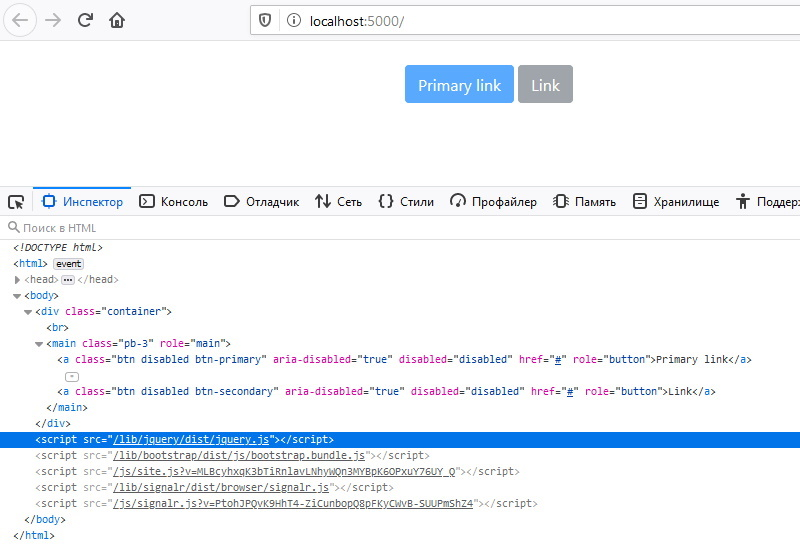
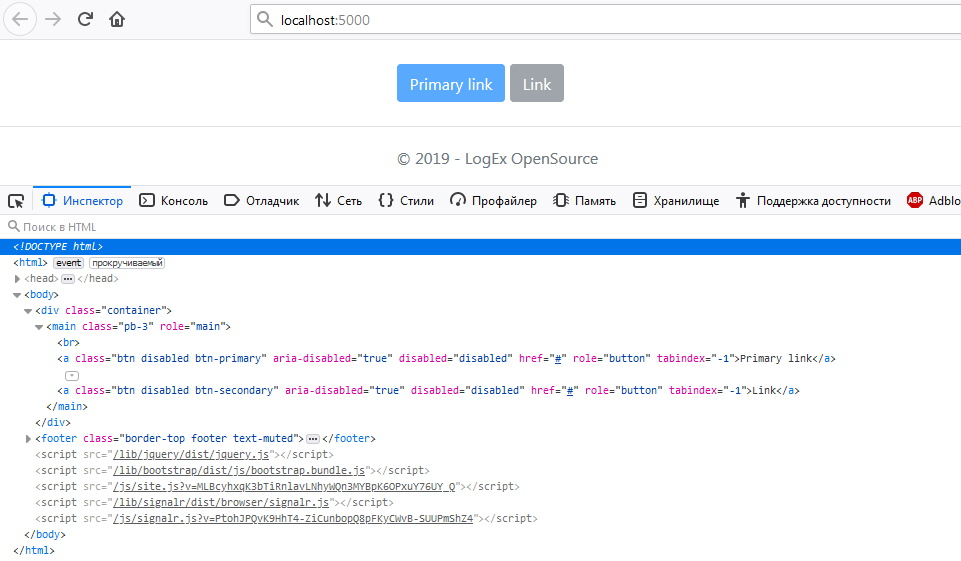
~

diff --git a/Service/html/abstract/AbstractDomManager.cs b/Service/html/abstract/AbstractDomManager.cs
@@ -108,7 +108,7 @@ namespace BootstrapViewComponentsRazorLibrary.Service
 
             if (attr_name == "tabindex")
             {
-                if (!Regex.IsMatch(@"^-?\d+$", attr_value))
+                if (!Regex.IsMatch(attr_value, @"^-?\d+$"))
                     return this;
                 Tabindex = int.Parse(attr_value);
             }

diff --git a/Service/bootstrap/button/BootstrapButtonLinkManager.cs b/Service/bootstrap/button/BootstrapButtonLinkManager.cs
@@ -25,7 +25,6 @@ namespace BootstrapViewComponentsRazorLibrary.Service.bootstrap
 
             if (IsDisabled)
             {
-                RemoveAttribute("disabled");
                 Tabindex = -1;
                 SetAttribute("aria-disabled", "true");
             }
